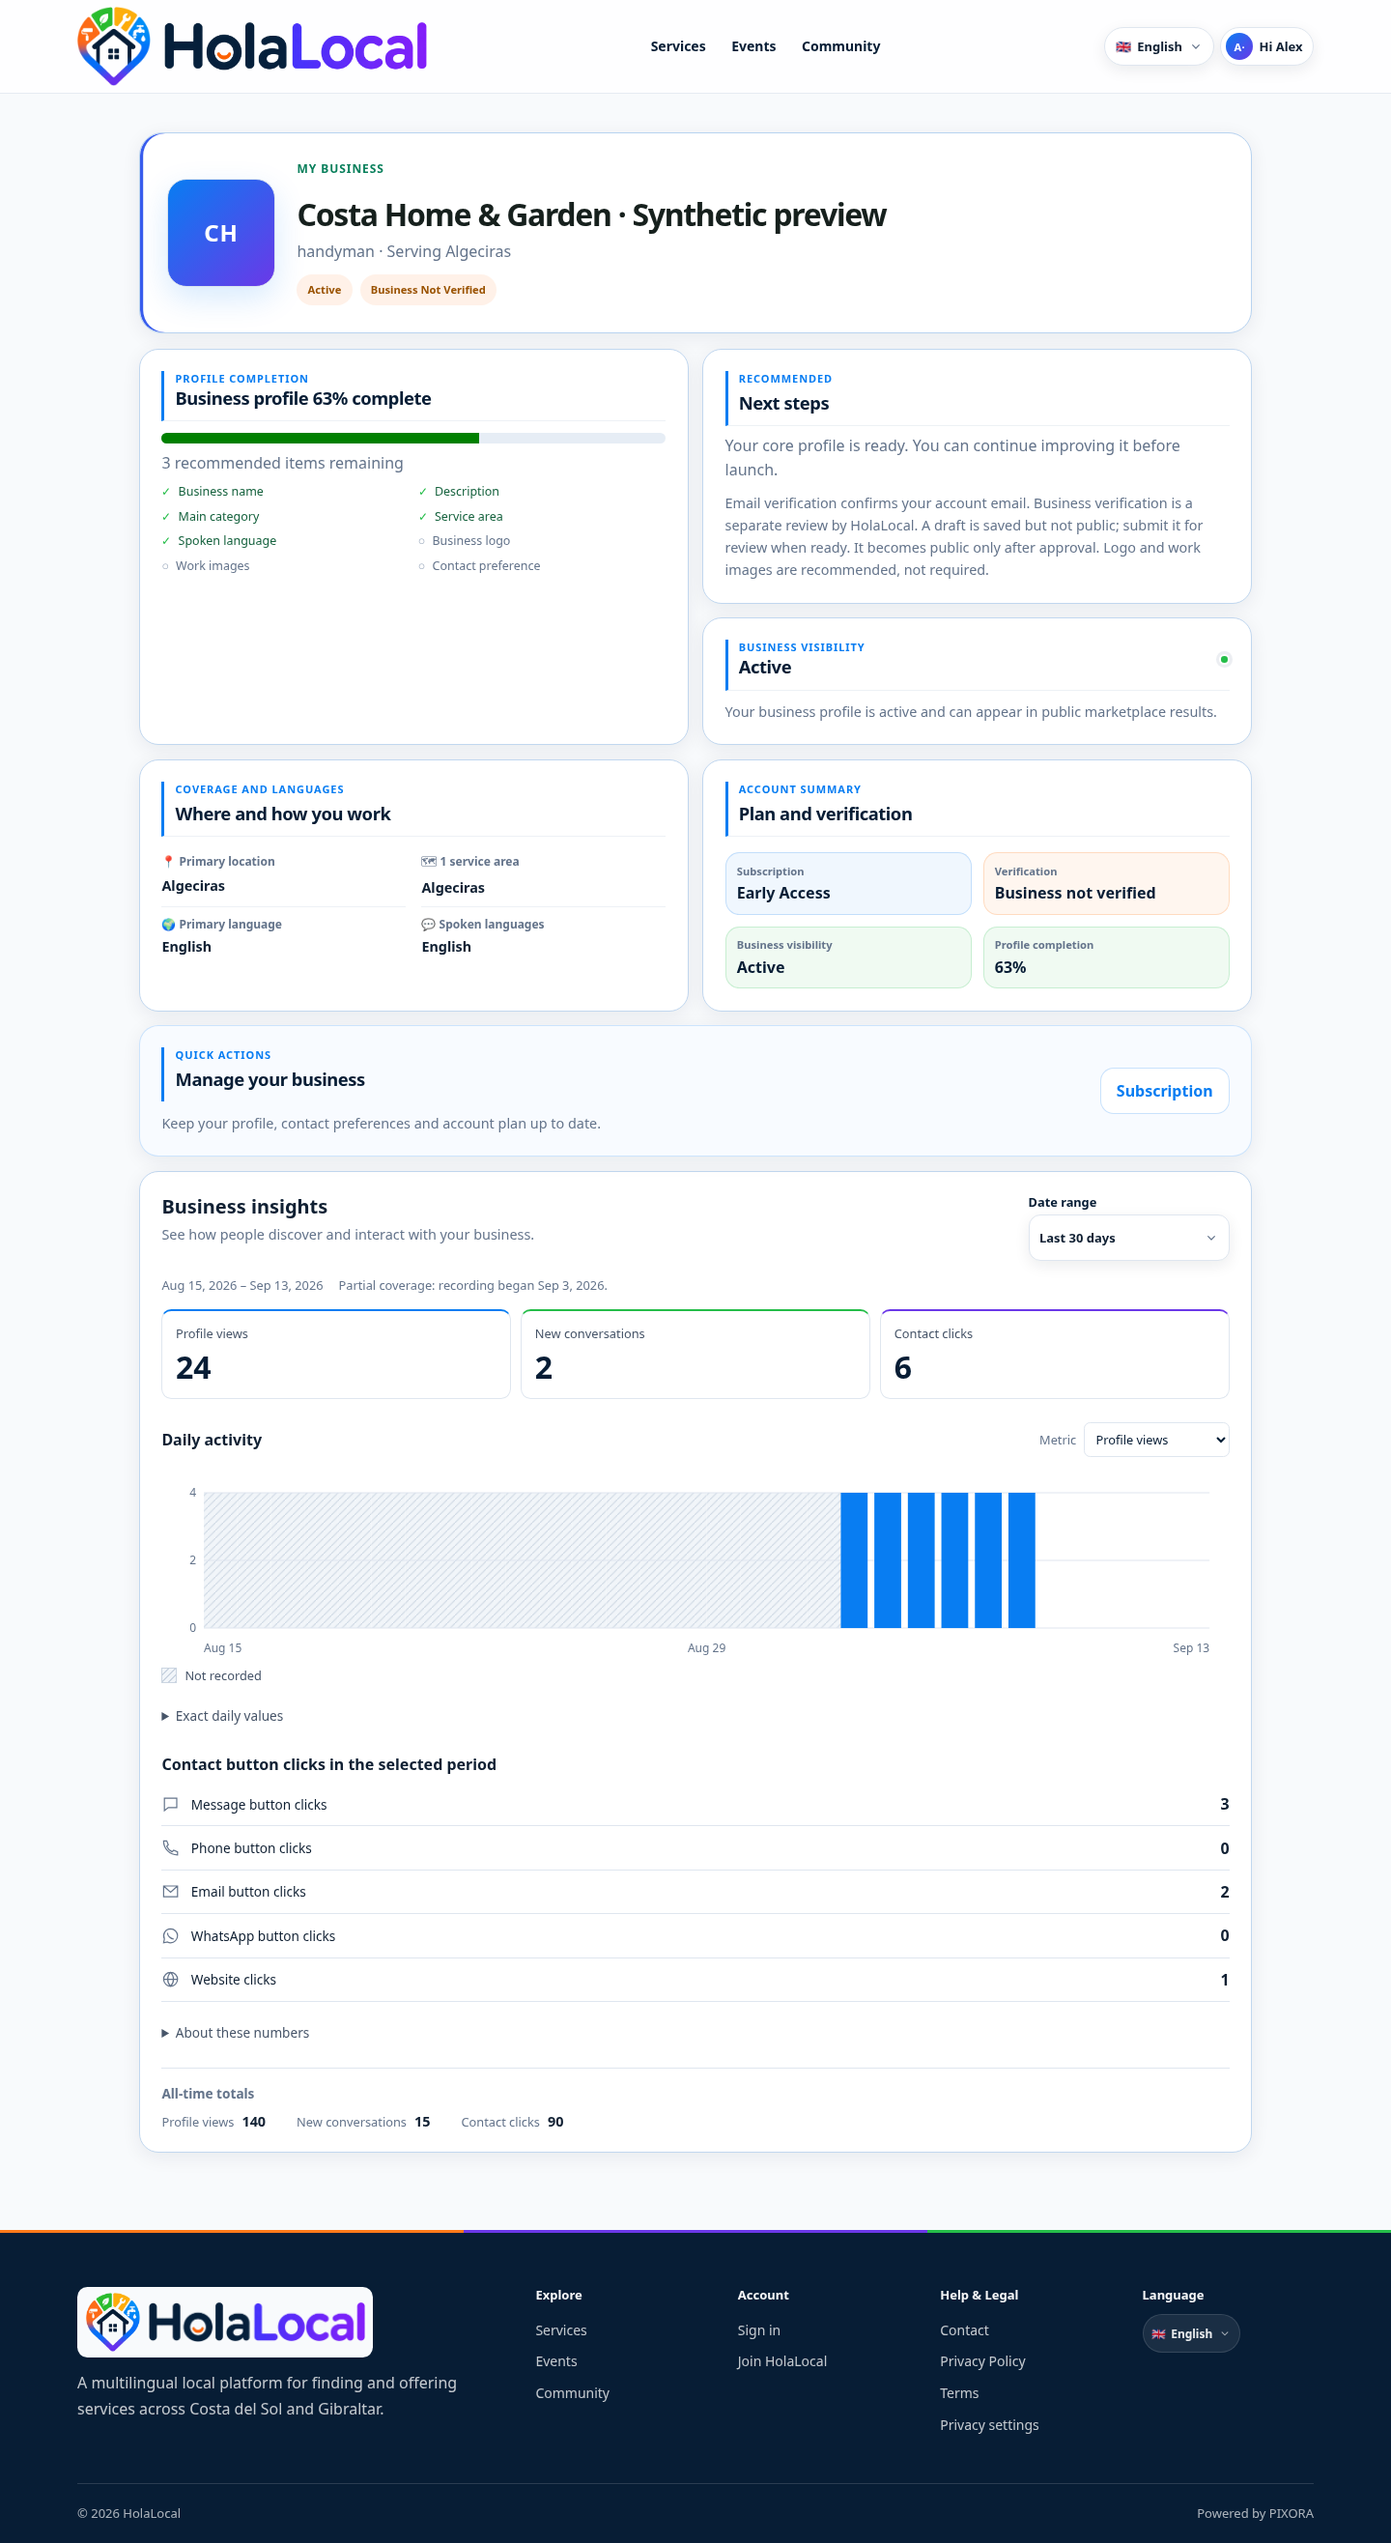
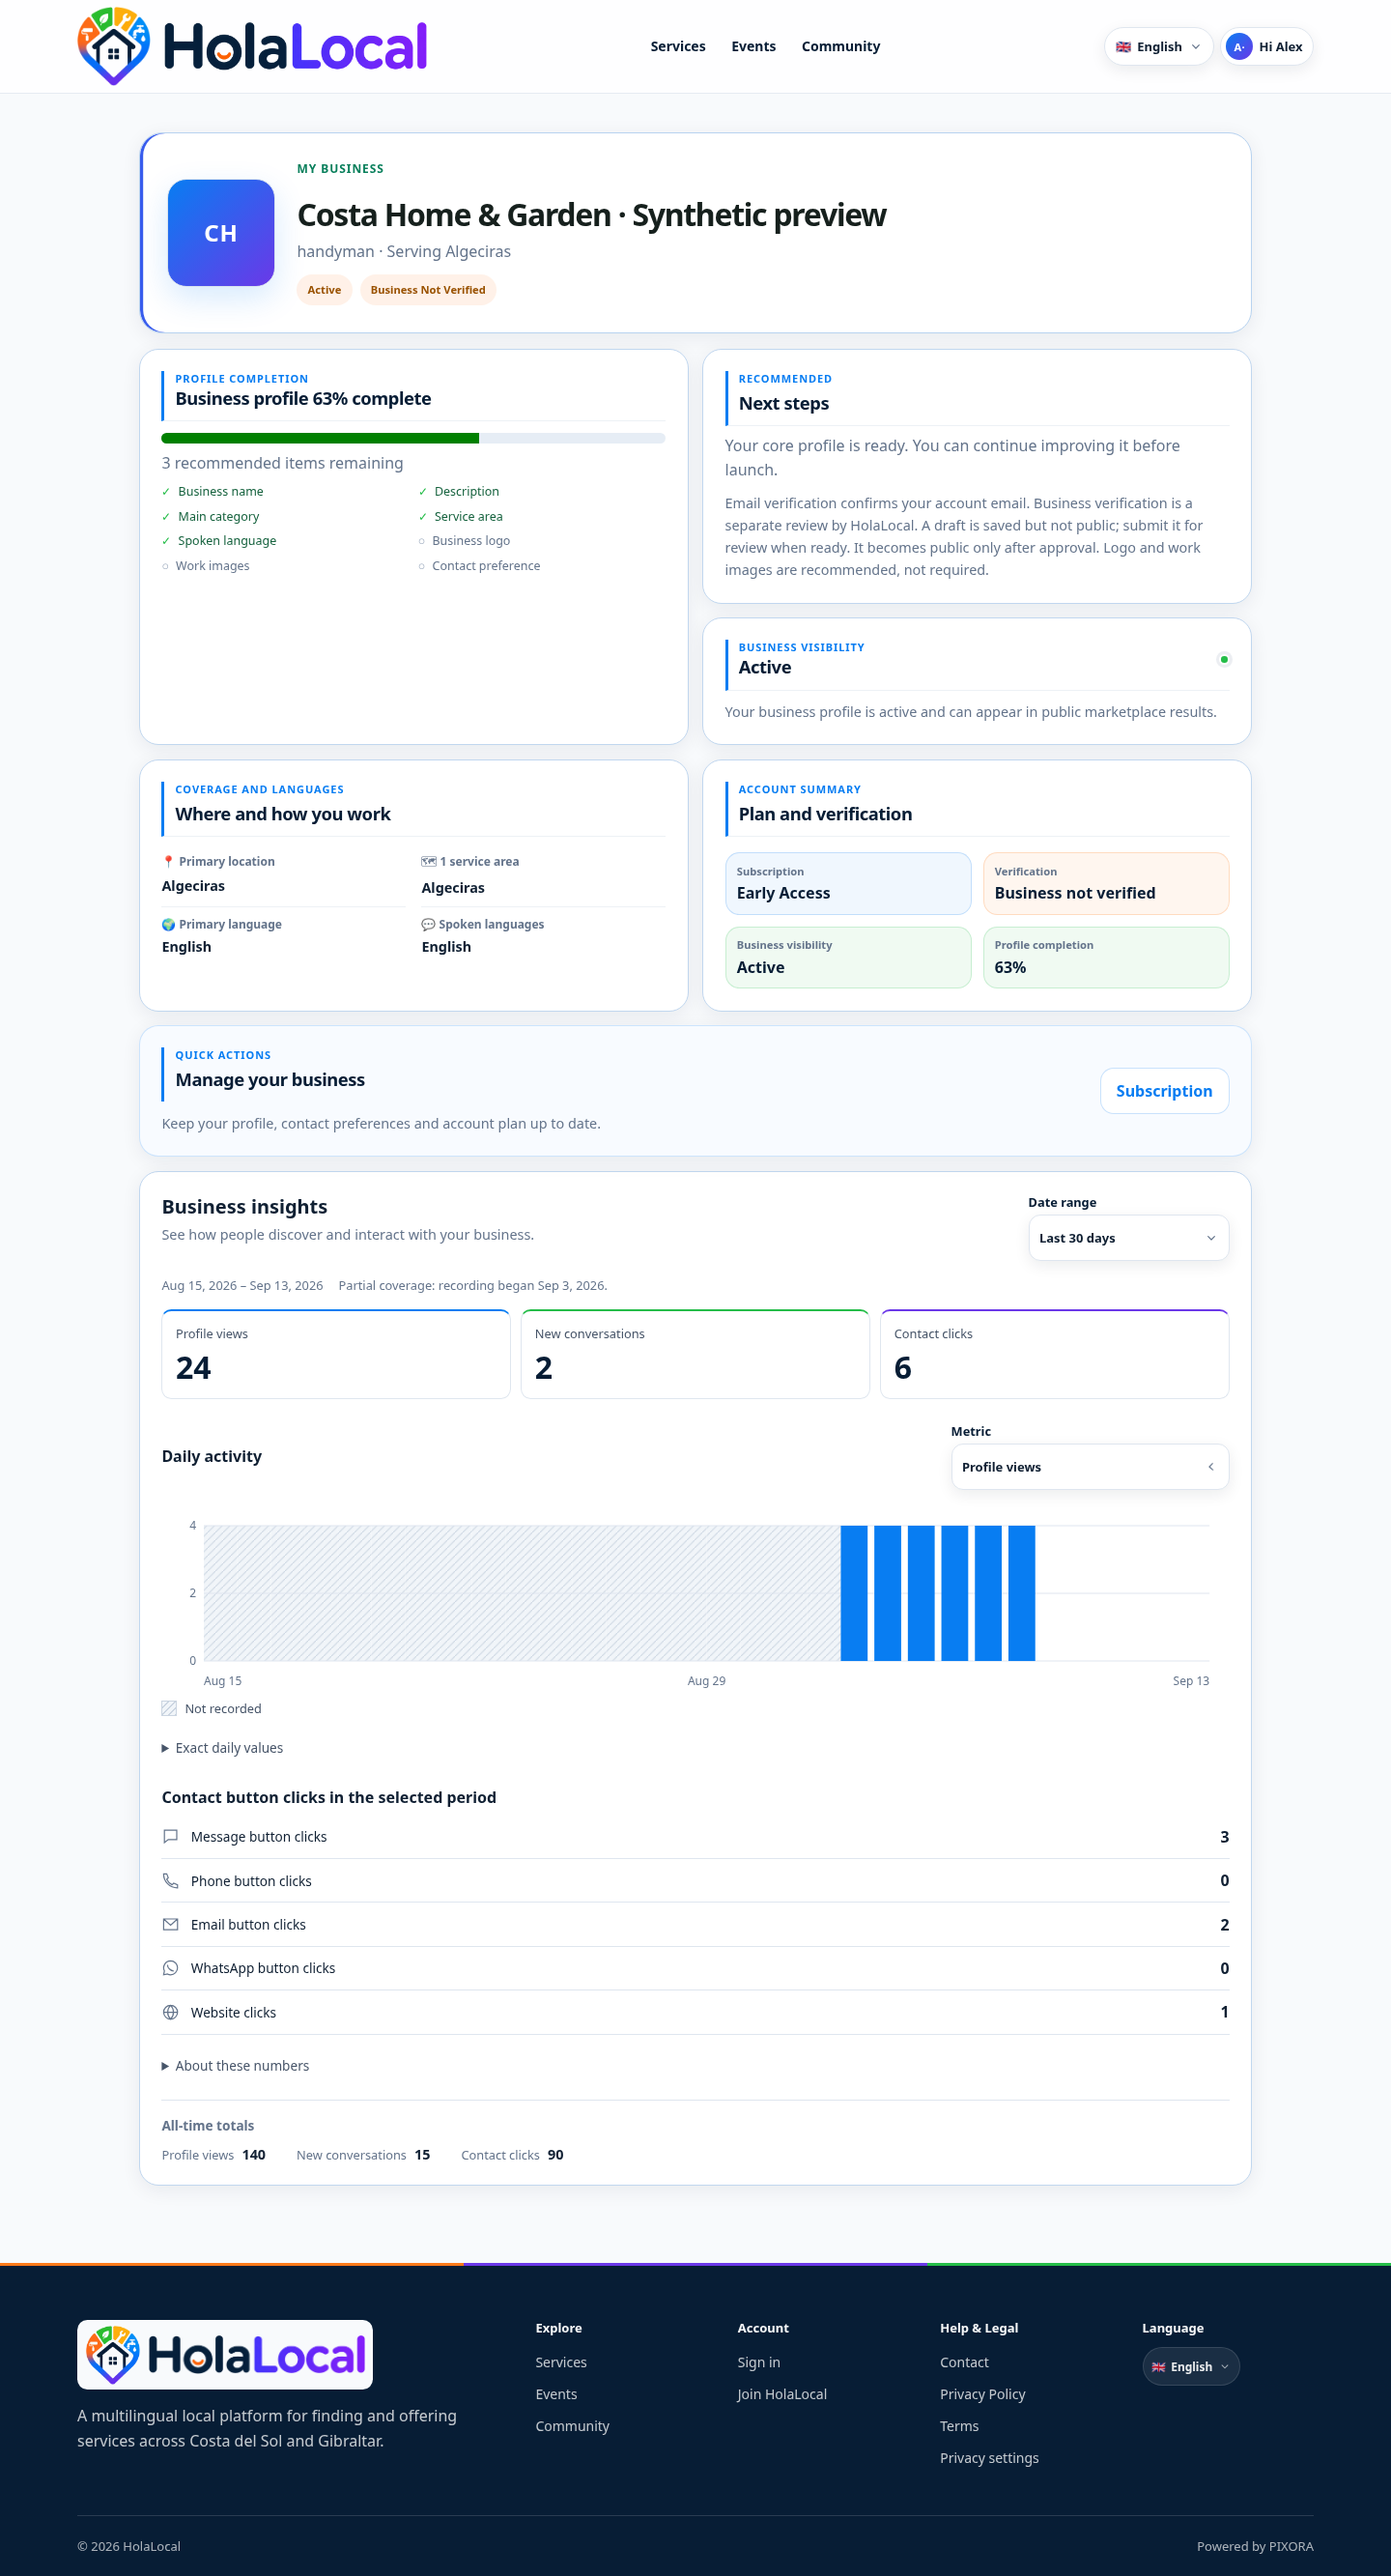
Use the shared dropdown for the insights metric selector

diff --git a/apps/holalocal-website/src/components/business/BusinessInsightsPanel.jsx b/apps/holalocal-website/src/components/business/BusinessInsightsPanel.jsx
@@ -170,7 +170,7 @@ export default function BusinessInsightsPanel({ businessId, status, business }) 
           <section ref={chartContainer} className="business-insights__activity" aria-labelledby="insights-activity-title">
             <div className="business-insights__chart-heading">
               <h3 id="insights-activity-title">{t('businessInsights.activityTitle')}</h3>
-              <label>{t('businessInsights.metric')}<select value={metric} onChange={(event) => setMetric(event.target.value)}>{metricKeys.map((key) => <option value={key} key={key}>{t(`businessInsights.${key}`)}</option>)}</select></label>
+              <div><label htmlFor="business-insights-metric">{t('businessInsights.metric')}</label><SelectField id="business-insights-metric" ariaLabel={t('businessInsights.metric')} className="select-field--form" value={metric} onChange={setMetric} options={metricKeys.map((key) => ({ value: key, label: t(`businessInsights.${key}`) }))} /></div>
             </div>
             {hasActivity || hasUnrecordedDays ? <svg className="business-insights__chart" viewBox={`0 0 ${chartWidth} 200`} aria-hidden="true">
               <defs><pattern id={unrecordedPattern} width="8" height="8" patternUnits="userSpaceOnUse"><rect width="8" height="8" fill="#f1f5f9" /><path d="M0 8 8 0" stroke="#cbd5e1" strokeWidth="1" /></pattern></defs>

diff --git a/apps/holalocal-website/src/styles/global.css b/apps/holalocal-website/src/styles/global.css
@@ -3107,6 +3107,7 @@
 }
 
 .business-insights__range-select > label,
+.business-insights__chart-heading label,
 .business-insights__custom-range label {
   color: var(--brand-navy);
   font-size: 0.8rem;
@@ -3173,8 +3174,7 @@
 .business-insights__activity, .business-insights__breakdown { margin-top: 1.5rem; min-width: 0; }
 .business-insights__activity h3, .business-insights__breakdown h3 { margin: 0; font-size: 1rem; }
 .business-insights__chart-heading { display: flex; justify-content: space-between; gap: .75rem; align-items: center; flex-wrap: wrap; }
-.business-insights__chart-heading label { display: flex; align-items: center; gap: .5rem; font-size: .8rem; color: #64748b; max-width: 100%; }
-.business-insights__chart-heading select { min-width: 0; max-width: 100%; padding: .45rem; border: 1px solid var(--line); border-radius: .4rem; background: white; color: var(--brand-navy); font: inherit; }
+.business-insights__chart-heading > div { display: grid; gap: .25rem; width: 18rem; max-width: 100%; min-width: 0; }
 .business-insights__chart { display: block; width: 100%; height: auto; margin-top: .75rem; overflow: visible; }
 .business-insights__chart .business-insights__bar { fill: var(--brand-blue); }
 .business-insights__chart line { stroke: var(--line); }

diff --git a/docs/business-insights/README.md b/docs/business-insights/README.md
@@ -29,7 +29,7 @@ Affected metric wording is translated in all 17 original locale resources. Exist
 - The new actual managed/public projection regression passes, including private overrides, hidden values, lifecycle and deletion state.
 - Full compatibility suite: 30 pass, 7 fail. Unchanged main-equivalent source with the same dependencies: 29 pass, the same 7 fail. These are existing broader locale manifest/composition/legal assertions; no coverage suppressed or changed to mask them.
 - 50 local browser checks: 390/1440 widths, messaging-only, populated, sparse, historical channels, inactive business, empty/error, period changes/reload, all three metric selections, exact daily values, mixed/entirely unrecorded periods, preserved zero bar heights, full-width chart sizing, default-closed keyboard disclosures and table End-key scrolling, 17-language wrapping. Fixtures render the actual BusinessDashboardPage within SiteLayout and BusinessLayout. All external requests blocked; zero external requests occurred.
-- Lint, locale parity (17), fresh production build and unchanged 200 kB budget pass. Local initial JS: 190.25 kB gzip; Vercel's configured preview build may differ.
+- Lint, locale parity (17), fresh production build and unchanged 200 kB budget pass. Local initial JS: 190.24 kB gzip; Vercel's configured preview build may differ.
 
 Synthetic fixtures exist only in `tests/browser/businessInsights.mjs`, loaded by a programmatic test server. They are not imported into runtime pages or the production build. Run from apps/holalocal-website:
 
@@ -51,3 +51,11 @@ Other scenarios: messaging, populated, sparse, inactive, empty, error. Locale us
 ## Release boundary
 
 Appearance approval and production merge remain pending. The PR's automatic Vercel preview uses actual guarded application routes, without synthetic fixtures. No production tracking traffic was generated. No Firebase deployment is required. Preserve current production environment and review/translation/retention/Analytics settings. Original mixed workspace, older insights branch and backups remain untouched.
+
+## Shared Metric dropdown
+
+The original panel uses SelectField with the existing select-field--form class, as the date-range selector does. Removed the native select styling; only the surrounding layout specifies a responsive 18rem maximum-width container. Existing labels in all 17 languages are reused unchanged. No new component or design variant.
+
+Browser checks exercise all three choices by keyboard in all 17 languages at both widths, menu overflow, Escape/focus return, and matching computed font family/size/weight, minimum height, padding and radius against the date-range control. Existing metric/table/coverage checks continue to pass.
+
+[Open Metric menu — mobile](metric-mobile.png) · [desktop](metric-desktop.png)
